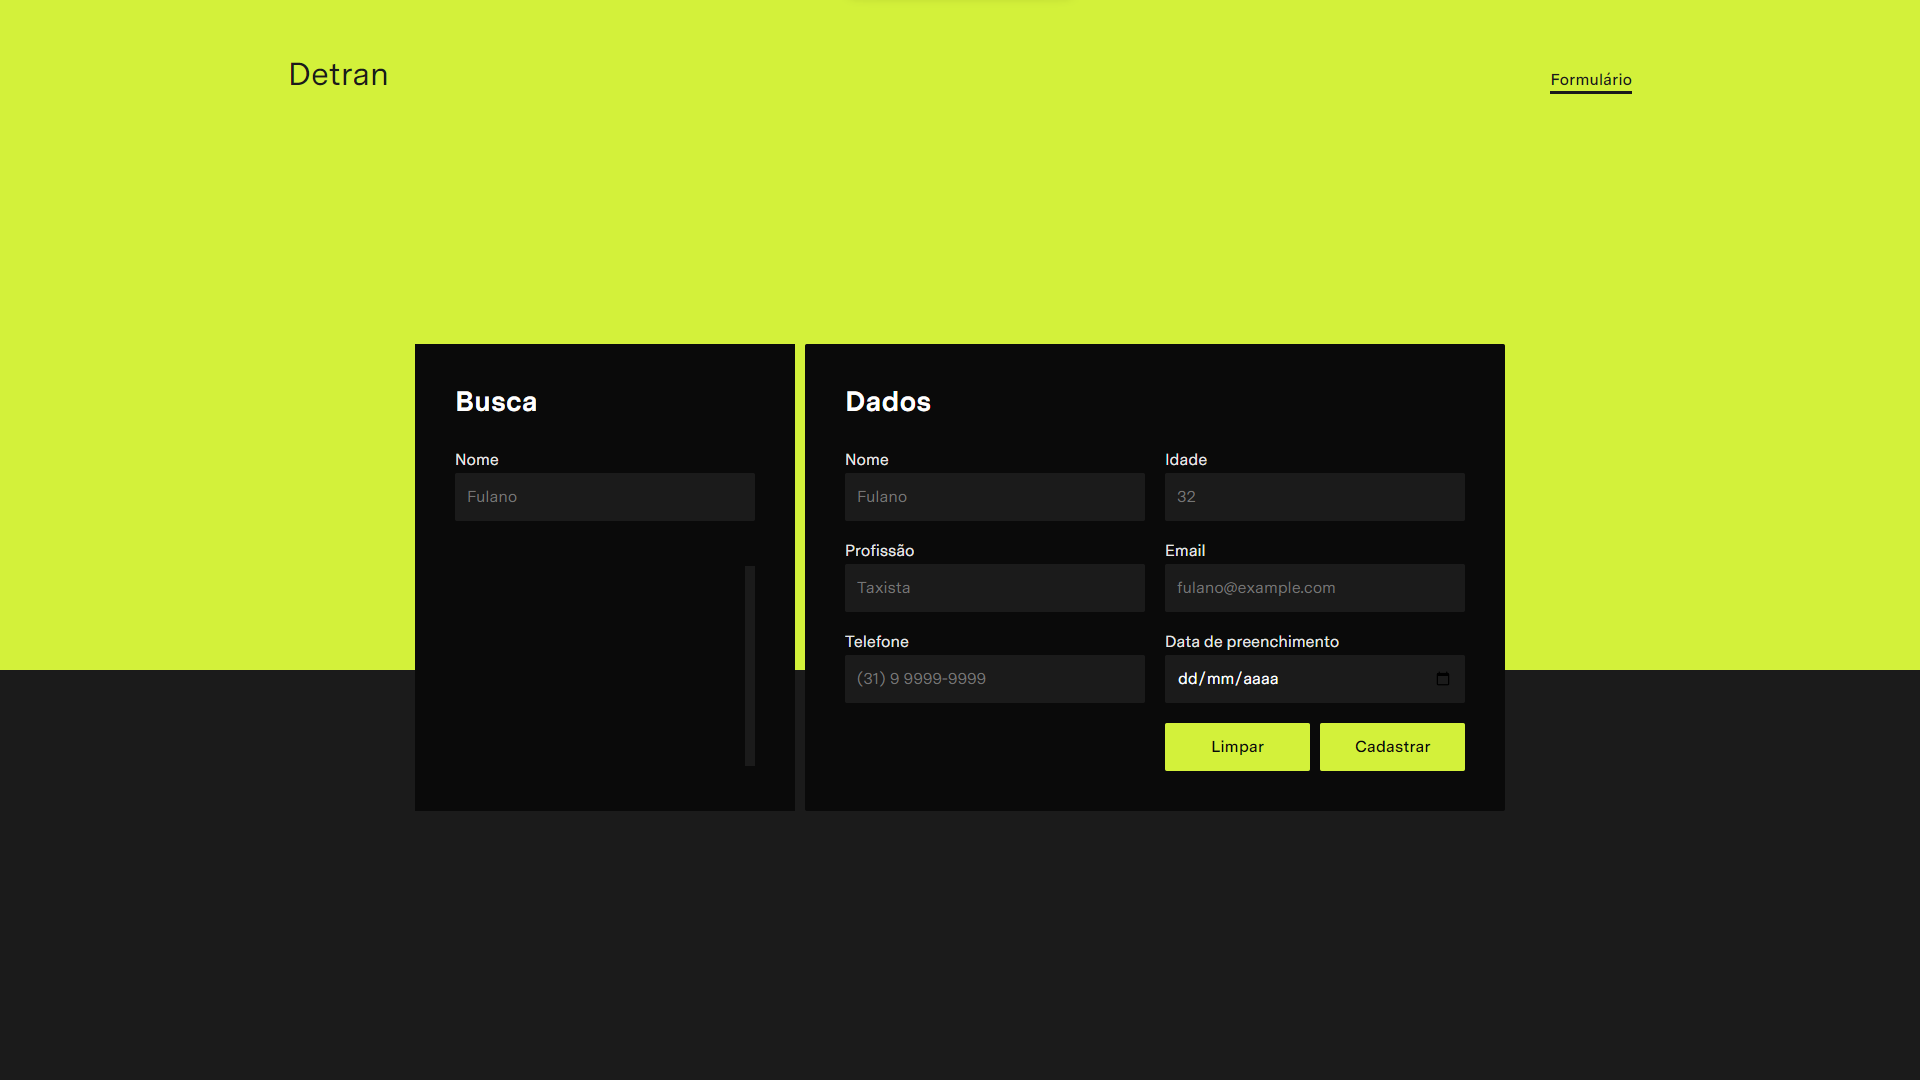
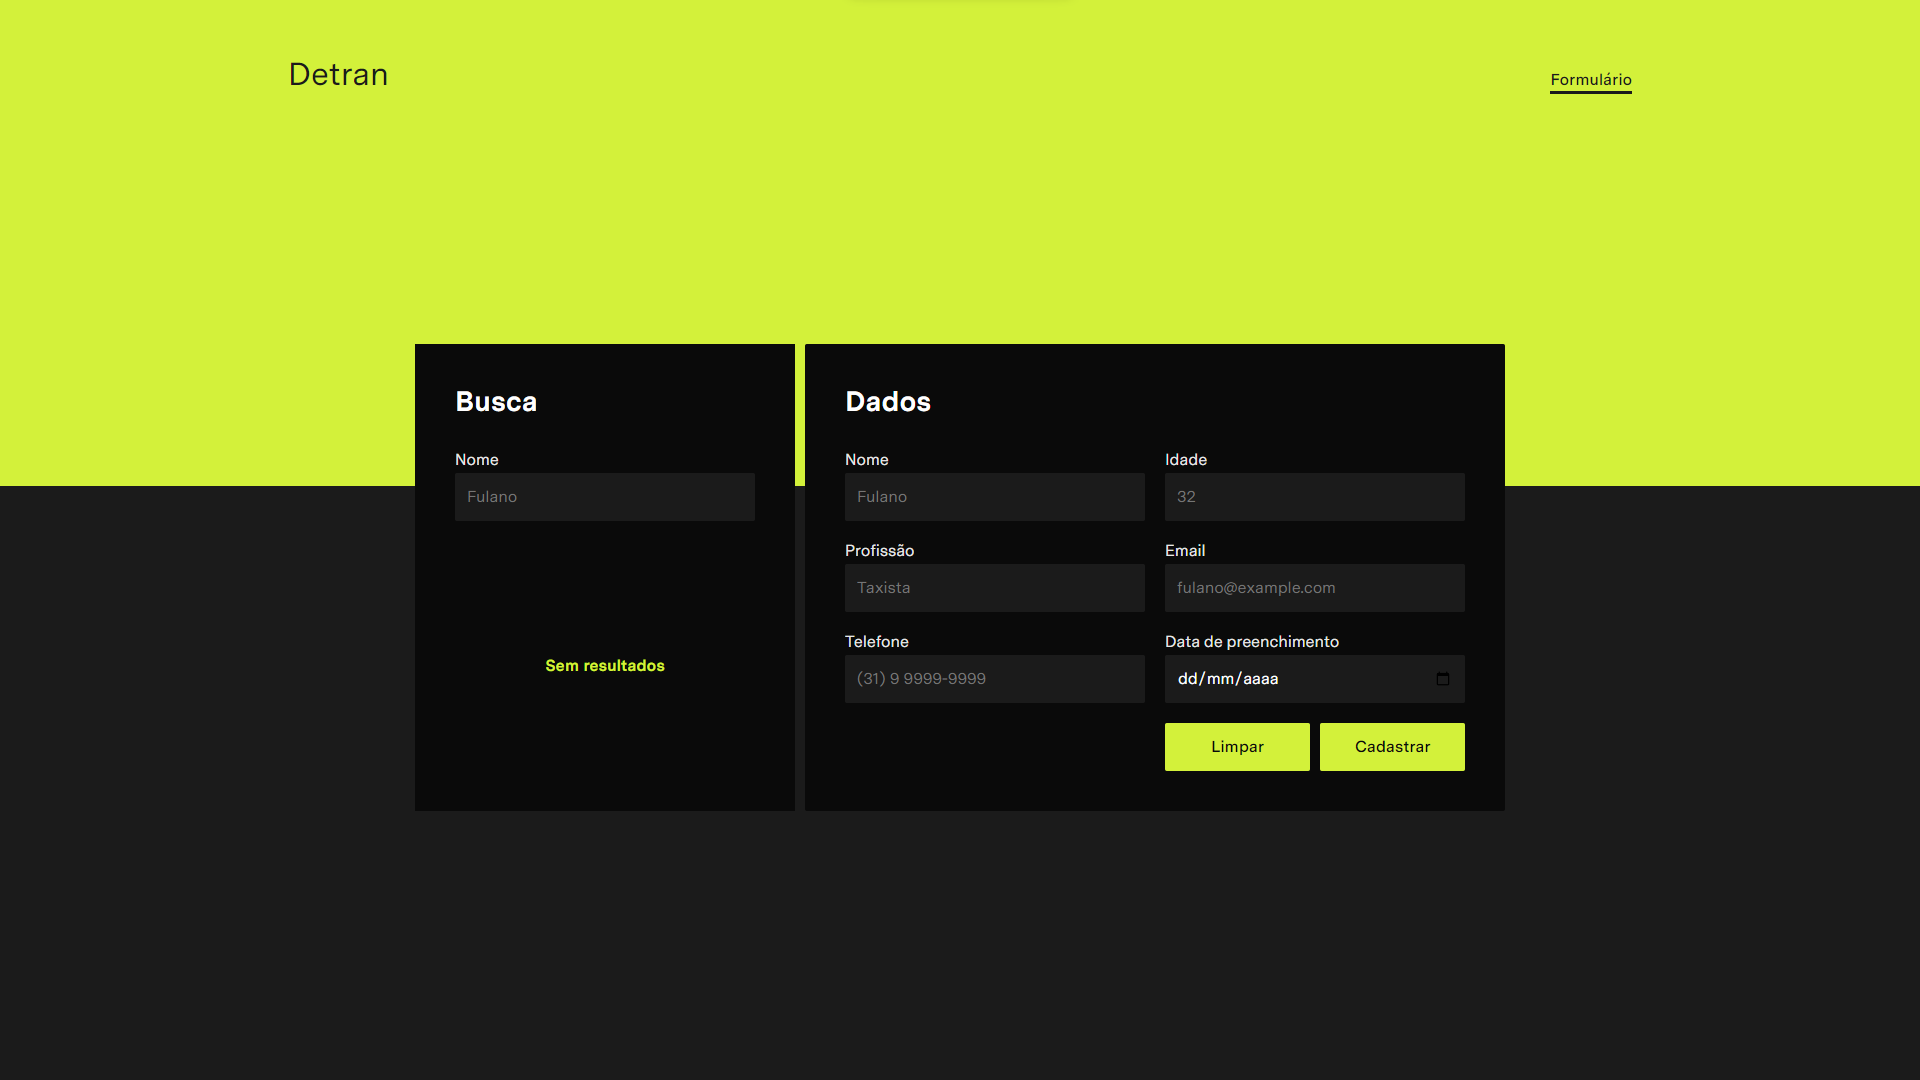
Update README.md

diff --git a/src/pages/Home/styles.module.css b/src/pages/Home/styles.module.css
@@ -134,7 +134,7 @@
   top: 0;
   left: 0;
   width: 100%;
-  height: 62vh;
+  height: 45vh;
   background-color: var(--pear);
   z-index: -1;
 }
@@ -150,6 +150,10 @@
 
   .searchBox ul {
     height: 140px;
+  }
+
+  .fillBox {
+    height: 32vh;
   }
 }
 
